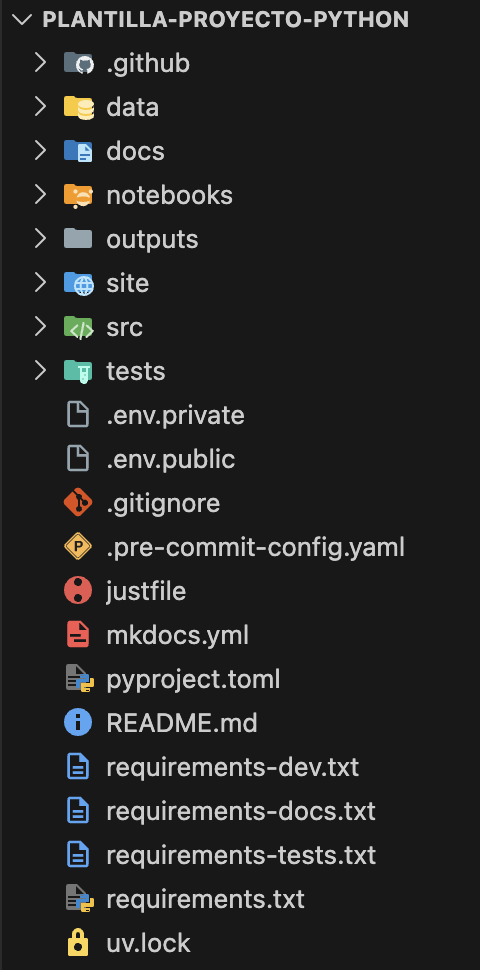
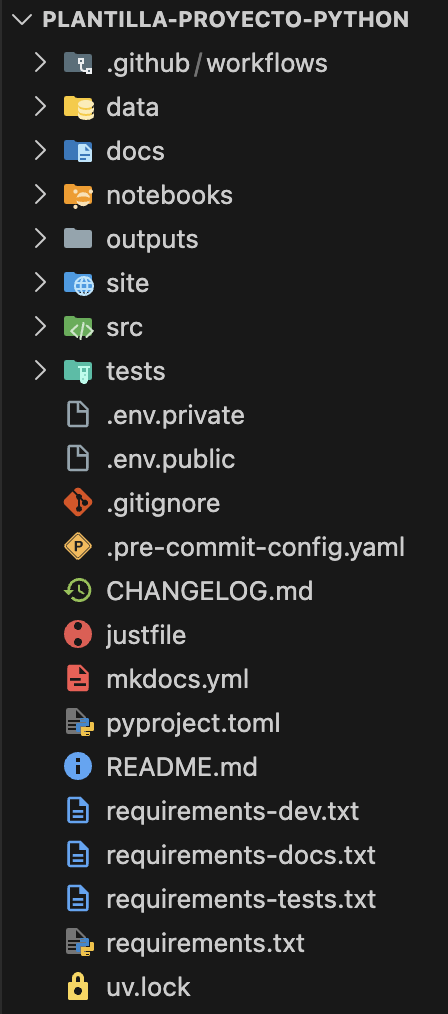
docs: agrega descripción de todos los archivos y mejora documentación de los mensajes commit

Changed region(s): [[0.0312, 0.0, 0.9062, 0.9897], [0.0625, 0.0928, 0.0938, 0.4021]]

diff --git a/README.md b/README.md
@@ -42,7 +42,15 @@ El proyecto usa la siguiente estructura de carpetas y archivos:
   <figcaption>Estructura de carpetas y archivos del proyecto</figcaption>
 </figure>
 
+### Carpetas
+
 A continuación se describe el propósito de cada una de las carpetas:
+
+:material-folder: `.github/`
+
+:   Carpeta para almacenar los archivos que configuran las _GitHub Actions_. Estos archivos están escritos en formato YAML y permiten automatizar tareas como la integración continua, el despliegue continuo, la gestión de incidencias, entre otras.
+
+    En principio no es necesario que modifique estos archivos, pero si desea personalizar las acciones automatizadas del proyecto, puede hacerlo editando los archivos dentro de esta carpeta o creando nuevos archivos según sus necesidades.
 
 :material-folder: `data/`
 
@@ -82,18 +90,90 @@ A continuación se describe el propósito de cada una de las carpetas:
 
 :   Carpeta para almacenar las pruebas del proyecto (archivos  `.py`). Dentro de la carpeta se pueden crear sub-carpetas para organizar las pruebas adecuadamente. Las pruebas se deben escribir usando [pytest](https://docs.pytest.org/en/stable/).
 
+### Archivos
+
+A continuación se describe el propósito de algunos de los archivos más importantes del proyecto:
+
+:material-file: `.env.private`
+
+:   Archivo para almacenar las variables de entorno privadas del proyecto. Este archivo **NO** debe estar versionado con Git, y por defecto, está incluido en el archivo `.gitignore` del proyecto[^1].
+
+    Para más información sobre el uso de variables de entorno en el proyecto, consulte el archivo `src/tutorial.py`.
+
+:material-file: `.env.public`
+
+:   Archivo para almacenar las variables de entorno públicas del proyecto. Este archivo **SI** debe estar versionado con Git.
+
+    Para más información sobre el uso de variables de entorno en el proyecto, consulte el archivo `src/tutorial.py`.
+
+:material-file: `.gitignore`
+
+:   Archivo para especificar los archivos y carpetas que **Git** debe ignorar al momento de hacer seguimiento de los cambios en el proyecto. Este archivo es fundamental para evitar que archivos temporales, archivos de configuración local o archivos generados automáticamente se incluyan en el control de versiones.
+
+    El archivo `.gitignore` del proyecto ya incluye las configuraciones necesarias para ignorar las carpetas `data/` y `outputs/`, entre otros archivos y carpetas comunes que no deben ser versionados.
+
+:material-file: `pre-commit-config.yaml`
+
+:  Archivo para configurar los _hooks_ de [pre-commit](https://pre-commit.com/) en el proyecto. Este archivo define una serie de reglas y herramientas que se ejecutan automáticamente antes de realizar un _commit_ en Git, con el fin de asegurar la calidad del código y mantener un estándar consistente en el proyecto.
+
+    El archivo `pre-commit-config.yaml` del proyecto ya incluye configuraciones para varias herramientas útiles, como formateadores de código, linters y verificadores de seguridad.
+
+    Para más información sobre el uso de **pre-commit** en el proyecto, consulte [Uso](#uso) y [_Flujo de trabajo_](docs/otros/flujo.md).
+
+:material-file: `CHANGELOG.md`
+
+:   Archivo para llevar un registro de los cambios realizados en el proyecto a lo largo del tiempo. Este archivo sigue el formato de [Keep a Changelog](https://keepachangelog.com/en/1.0.0/) y ayuda a los desarrolladores y usuarios a entender la evolución del proyecto, facilitando la identificación de nuevas características, correcciones de errores y cambios importantes entre versiones.
+
+    Este archivo se actualiza automáticamente al hacer _commits_ usando la instrucción `just bump-code-version` (o su alias `just b`). Para más información sobre el uso de **just** en el proyecto, consulte [Uso](#uso) y [_Flujo de trabajo_](docs/otros/flujo.md).
+
+:material-file: `justfile`
+
+:   Archivo para almacenar las tareas automatizadas del proyecto usando [**just**](https://github.com/casey/just). Este archivo contiene las instrucciones para ejecutar tareas comunes del proyecto, como instalar dependencias, ejecutar pruebas, generar documentación, entre otras.
+
+    Para más información sobre el uso de **just** en el proyecto, consulte [Uso](#uso) y [_Flujo de trabajo_](docs/otros/flujo.md).
+
+:material-file: `mkdocs.yml`
+
+:  Archivo para configurar la documentación del proyecto usando [MkDocs](https://www.mkdocs.org/) y [Material for MkDocs](https://squidfunk.github.io/mkdocs-material/). Este archivo define la estructura, el tema, las extensiones y otras opciones relacionadas con la generación de la documentación del proyecto.
+
+    Para más información sobre el uso de **MkDocs** en el proyecto, consulte [Uso](#uso) y [_Flujo de trabajo_](docs/otros/flujo.md).
+
+:material-file: `pyproject.toml`
+
+: Archivo para gestionar las dependencias y la configuración del proyecto usando [uv](https://docs.astral.sh/uv/). Este archivo define las librerías necesarias para el desarrollo y la ejecución del proyecto, así como otras configuraciones relacionadas con el entorno de desarrollo.
+
+    Para más información sobre el uso de **uv** en el proyecto, consulte [Uso](#uso) y [_Librerías adicionales_](docs/otros/librerias.md).
+
+:material-file: `README.md`
+
+: Archivo para proporcionar una descripción general del proyecto, incluyendo su propósito, características principales, instrucciones de instalación y uso, entre otros detalles relevantes. Este archivo es lo primero que los usuarios y colaboradores ven al acceder al repositorio del proyecto.
+
+    El archivo `README.md` (este archivo) del proyecto ya incluye información básica sobre la plantilla y un enlace a la documentación completa en línea.
+
+:material-file: `requeriments-dev.txt`, `requeriments-docs.txt`, `requeriments-tests.txt` y `requeriments.txt` 
+
+: Archivos para listar las dependencias del proyecto. Aunque el proyecto usa [uv](https://docs.astral.sh/uv/) para gestionar las dependencias, este archivo puede ser útil para herramientas o servicios que esperan encontrar archivos `requirements.txt` en el proyecto (e.g. _GitHub Actions_).
+
+:material-file: `uv.lock`
+
+: Archivo generado automáticamente por [uv](https://docs.astral.sh/uv/) para asegurar que las dependencias del proyecto se instalen de manera consistente en diferentes entornos. Este archivo registra las versiones exactas de las librerías instaladas en el proyecto, incluyendo sus dependencias y sub-dependencias.
+
+    No es necesario modificar este archivo manualmente, ya que se actualiza automáticamente al instalar o actualizar las dependencias del proyecto usando **uv**.
+
 ## Uso
 
 Para instalar la plantilla y empezarla a usar en un nuevo proyecto, debe tener instalado previamente en su equipo, [**Git**](https://git-scm.com/) (versión >= 2.52.0), [**uv**](https://docs.astral.sh/uv/) (versión >= 0.9.26) y [**just**](https://github.com/casey/just) (versión >= 1.46.0).
 
 !!! warning "¡Atención!"
-    El proyecto incluye algunas funcionalidades que requieren un _shell_ (`sh`) compatible con Unix (e.g. MacOS, LinuxOS). Al instalar Git en WindowsOS, es posible instalar adicionalmente **Git Bash** que proporciona un _shell_ compatible con Unix. Si realiza esta instalación adicional y configura su sistema para usar Git Bash como _shell_ predeterminado, tal como lo explica la documentación de la instalación de **just**, no debería tener inconvenientes al usar el proyecto en WindowsOS.
+    El proyecto incluye algunas funcionalidades que requieren un _shell_ (`sh`) compatible con Unix (e.g. MacOS, LinuxOS).
+
+    Al instalar **Git** en WindowsOS, es posible instalar adicionalmente **Git Bash**, lo que proporciona un _shell_ compatible con Unix. Si realiza esta instalación adicional y configura su sistema para usar Git Bash como _shell_ predeterminado, tal como lo explica la documentación de la instalación de **just**, no debería tener inconvenientes al usar el proyecto en WindowsOS.
 
     Si se le presentan errores, le agradecemos lo reporte para buscar soluciones.
 
 Posteriormente, siga los pasos descritos a continuación:
 
-1. Cree un nuevo repositorio a partir de esta [plantilla](https://github.com/alejpelo/plantilla-proyecto-python) (_template_) con el nombre de su nuevo proyecto. _Asegúrese de marcar la opción **Include all branches**_.
+1. Cree un nuevo repositorio a partir de esta [plantilla](https://github.com/alejpelo/plantilla-proyecto-python) (_template_) con el nombre de su nuevo proyecto. Asegúrese de marcar la opción _**Include all branches**_.
 
 2. Clone el nuevo repositorio en su equipo local.
 

diff --git a/docs/otros/lineamientos.md b/docs/otros/lineamientos.md
@@ -25,31 +25,44 @@ Se utiliza [Gitflow](https://www.atlassian.com/git/tutorials/comparing-workflows
 Es obligatorio incluir un mensaje en cada _commit_. El mensaje debe utilizar la siguiente plantilla:
 
 ```git
-<tipo>: <asunto> (Si se aplica, este commit...)
-|<--------  Usar máximo 50 caracteres  --------->|
+<tipo>[alcance (opcional)]: <asunto> (Si se aplica, este commit...)
+(ejemplos:)
+fix: corrige error en la función de carga de datos
+feat(parser): agrega soporte para nuevos formatos de archivo
+|<--------------------  Usar máximo 75 caracteres  ---------------------->|
 
-Explique por qué se realiza el cambio.
-|<----  Trate de limitar cada línea a máximo 72 caracteres  ---->|
+(cuerpo opcional) Explique por qué se realiza el cambio y qué está cambiando.
+Si el cambio es grande, use viñetas para organizar la información.
+(ejemplo:)
+- Descripción del cambio 1
+|<--------  Trate de limitar cada línea a máximo 75 caracteres  --------->|
 
-Descripción: Provea links o claves a cualquier ticket, artículo u
-otro recurso relevante para el commit
-Ejemplo: Issue #23
+(pie de página opcional)
+Descripción: Provea links o claves a cualquier ticket, artículo u otro
+recurso relevante para el commit
+Indique si el commit produce un BREAKING CHANGE
+(ejemplo:)
+Closes: #23
+BREAKING CHANGE: Se cambia la forma en que se maneja ...
+|<--------  Trate de limitar cada línea a máximo 75 caracteres  --------->|
 
----- FIN DEL COMMIT ----
+----------------------------- FIN DEL COMMIT ------------------------------
 
-<tipo> puede ser: 
-    feat     nueva característica
-    data     versionamiento de datos
-    fix      corrección de error
-    style    formato (e.g. agregar comas que faltaban); no se cambia el código
-    docs     cambios a la documentación
-    test     añadir o ajustar tests; no se cambia el código de producción
-    chore    cambia configuración CI/CD, pre-commits, etc.; no se cambia el código de producción
+<tipo> puede ser:
+    fix             corrección de error
+    feat            nueva característica
+    improvement     mejora de una característica existente sin agregar nueva funcionalidad o corregir errores
+    refactor        ajusta o mejora del código; no se cambia la funcionalidad
+    data            versionamiento de datos
+    style           formato (e.g. agregar comas que faltaban); no se cambia el código
+    docs            cambios a la documentación
+    test            añadir o ajustar tests; no se cambia el código de producción
+    chore           cambia configuración CI/CD, pre-commits, etc.; no se cambia el código de producción
 
 ---------------
 
 Recuerde...
-    Empezar con mayúscula la línea del asunto
+    Empezar con minúscula la línea del asunto. Tanto el <tipo> como el <asunto>
     Usar el modo imperativo en la línea del asunto
     No terminar la línea del asunto con punto
     Separar la línea del asunto del cuerpo del commit (descripción) con una línea en blanco
